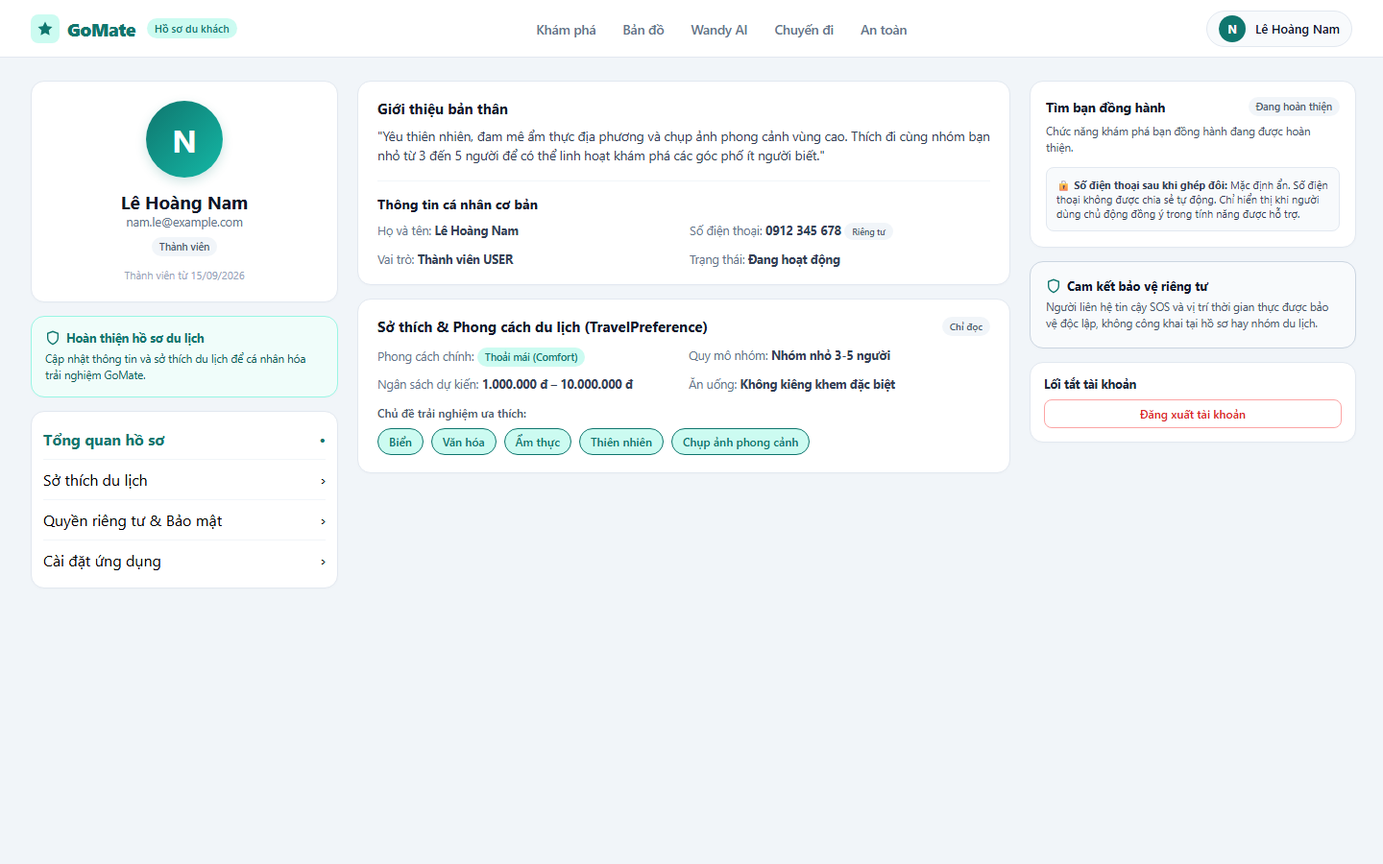
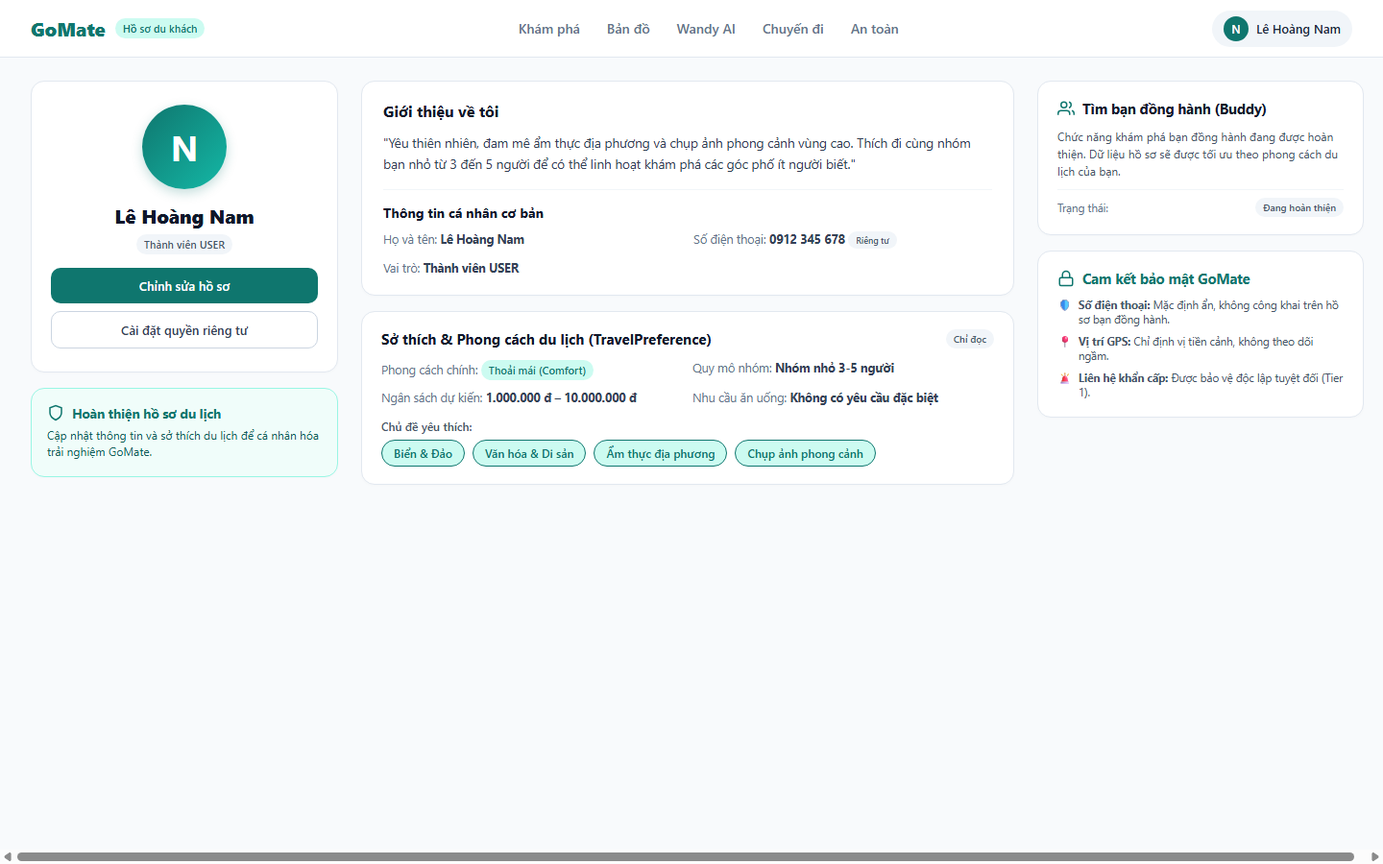
docs(design): finalize Profile Settings UI runtime closures

diff --git a/docs/design/gomate-profile-settings-contract-v1.md b/docs/design/gomate-profile-settings-contract-v1.md
@@ -109,19 +109,30 @@ The **GoMate Profile & Settings** module governs the traveler's digital identity
 | **`Home City`** | Absent | Absent | Absent | **MISSING** | Schema only has `nationality`. |
 | **`TravelPreference`** | 1:1 relation | Read-Only | No | **PARTIAL** | Selected in `findById`; zero update endpoint. |
 
-### 3.2. Form Validation & Write-Boundary Specification (Edit Profile V1-R1 Option A Master)
+### 3.2. Form Validation & Write-Boundary Specification (Edit Profile V1-R1.2 Option A Master)
 
-Under **Option A Master Baseline**, the Edit Profile UI strictly separates writable fields from read-only account metadata. The Save button persists **only** the writable fields supported by `PUT /users/me`:
+Under **Option A Master Baseline**, the Edit Profile UI strictly separates writable fields from read-only account metadata and standardizes on a **single canonical primary Save CTA**:
 
 1. **Writable Fields (Persisted via `PUT /users/me`):**
    - **Tên hiển thị (`displayName`)**: String, **Bắt buộc**, 2–50 ký tự (`value.trim().length >= 2 && value.trim().length <= 50`).
    - **Giới thiệu ngắn (`bio`)**: String, Tùy chọn, tối đa 200 ký tự với bộ đếm ký tự trực tiếp (`N / 200`).
-   - **Ảnh đại diện (`avatar`)**: URL ảnh hoặc tải lên; hiển thị khung tròn có icon chỉnh sửa.
+   - **Ảnh đại diện (`avatar`) — Phân loại năng lực 6 chiều (Avatar End-to-End Audit):**
+     1. *Field Persistence*: **CURRENT** — `avatar String?` trong `model Profile` (PostgreSQL).
+     2. *URL Update*: **CURRENT** — `PUT /users/me` nhận `{ avatar?: string }` và `UsersService.updateProfile` thực hiện upsert.
+     3. *Device Image Selection*: **MISSING** — Không có `image_picker` hay `file_picker` trong `pubspec.yaml`.
+     4. *Binary Image Upload*: **MISSING** — Không có endpoint nhận `multipart/form-data` hoặc Multer interceptor trong NestJS.
+     5. *Persistent Media Storage*: **MISSING** — Không có AWS S3, Cloudinary hay Firebase Storage SDK trong backend.
+     6. *Image Retrieval / Display*: **PARTIAL** — Mobile sử dụng `cached_network_image` hiển thị URL nếu có, fallback về hình tròn ký tự đầu (Initial Circle `N`).
+     - **UI Invariant:** Nhằm tránh tạo affordance giả về tính năng chọn ảnh từ máy/camera chưa tồn tại, icon camera đè lên avatar và nút bấm `[Thay đổi ảnh đại diện]` được **loại bỏ** khỏi mockup hiện hành (`profile-mobile-edit-v1-r1.png`). Khả năng chụp/chọn ảnh từ thiết bị được phân loại là **DESIGN TARGET** cho các phiên bản tiếp theo.
 
-2. **Readable & Non-Readable Account Metadata (R1.1 Truth):**
+2. **Readable & Non-Readable Account Metadata (R1.1 / R1.2 Truth):**
    - **Số điện thoại (`phone`)**: Đọc được từ `GET /users/me`; hiển thị dưới dạng thẻ chỉ đọc (Read-Only) kèm huy hiệu `Riêng tư`.
    - **Ngày sinh, Quốc tịch, Ngôn ngữ**: Không được đọc qua `GET /users/me` hiện tại. Không hiển thị các giá trị demo này như dữ liệu tài khoản runtime.
    - **Ghi chú minh bạch**: *"Một số thông tin tài khoản bổ sung chưa khả dụng trong phiên bản hiện tại."*
+
+3. **Single Canonical Primary Save Action:**
+   - **AppBar:** Chỉ hiển thị icon quay lại `<` cùng tiêu đề `"Chỉnh sửa hồ sơ"`. Nút `[Lưu]` trên AppBar bị **loại bỏ hoàn toàn** để tránh trùng lặp hành động.
+   - **Bottom CTA:** Duy nhất nút chính `[Lưu thay đổi hồ sơ]` ở chân màn hình, có chiều rộng full-width ($100\%$).
 
 ---
 
@@ -299,8 +310,8 @@ All 12 current master mockups were rendered via headless Microsoft Edge browser 
 | Mockup File | Viewport | Target Resolution | Architectural & Visual Compliance Audit (R1 Truth) | Status |
 | :--- | :---: | :---: | :--- | :---: |
 | [`profile-mobile-overview-v1-r1.png`](file:///d:/Do_an/wanderai/docs/audit/evidence/ui-08.2.3.16/profile-mobile-overview-v1-r1.png) | Mobile | $390 \times 844$ | 1. App bar `Hồ sơ cá nhân` + gear icon.<br>2. User avatar (N), display name "Lê Hoàng Nam", static role "Thành viên" (mapped from USER). Inferred personality badge removed.<br>3. Bio text.<br>4. Neutral informational card "Cập nhật thông tin và sở thích du lịch để cá nhân hóa trải nghiệm GoMate." (fake 65% and Wandy/Buddy matching claims removed).<br>5. Personal info & travel style (Comfort) + interest chips.<br>6. Actions: `[Chỉnh sửa hồ sơ]` + `[Quyền riêng tư]`.<br>7. Canonical 5-tab bottom navigation. | **CURRENT MASTER** |
-| [`profile-desktop-overview-v1-r1.png`](file:///d:/Do_an/wanderai/docs/audit/evidence/ui-08.2.3.16/profile-desktop-overview-v1-r1.png) | Desktop | $1440 \times 900$ | 1. Top nav: GoMate logo + badge `Hồ sơ du khách` + 5 canonical tabs + User pill.<br>2. 3-column workspace ($320\text{px} + 680\text{px} + 340\text{px}$).<br>3. Col 1: Profile summary, avatar, static role "Thành viên", fake "Đã xác thực" removed, completion card with neutral copy "Cập nhật thông tin và sở thích du lịch để cá nhân hóa trải nghiệm GoMate.", quick menu.<br>4. Col 2: Bio, basic info, TravelPreference details (Comfort, 1M-10M VND, 3-5 group, interest chips).<br>5. Col 3: Buddy Matching card ("Đang hoàn thiện"), Privacy Shield guarantee ("Mặc định ẩn"), Security shortcuts. | **CURRENT MASTER** |
-| [`profile-mobile-edit-v1-r1.png`](file:///d:/Do_an/wanderai/docs/audit/evidence/ui-08.2.3.16/profile-mobile-edit-v1-r1.png) | Mobile | $390 \times 844$ | **Option A Master Baseline:**<br>1. App bar `< Hủy`, `Chỉnh sửa hồ sơ`, `[Lưu]`.<br>2. Avatar edit overlay.<br>3. Writable Section (PUT /users/me): Tên hiển thị (2-50 chars) + Giới thiệu (78/200 chars).<br>4. Read-Only Section: Số điện thoại (Riêng tư); non-readable fields (DOB, nationality, languages) omitted with honest note: "Một số thông tin tài khoản bổ sung chưa khả dụng trong phiên bản hiện tại.".<br>5. Clear note: Additional info managed at account level.<br>6. Primary CTA: `[Lưu thay đổi hồ sơ]`. | **CURRENT MASTER** |
+| [`profile-desktop-overview-v1-r1.png`](file:///d:/Do_an/wanderai/docs/audit/evidence/ui-08.2.3.16/profile-desktop-overview-v1-r1.png) | Desktop | $1440 \times 900$ | 1. Top nav: GoMate logo + badge `Hồ sơ du khách` + 5 canonical tabs + User pill.<br>2. 3-column workspace ($320\text{px} + 680\text{px} + 340\text{px}$).<br>3. Col 1: Profile summary, avatar, static role "Thành viên", fake "Đã xác thực" removed, completion card with neutral copy "Cập nhật thông tin và sở thích du lịch để cá nhân hóa trải nghiệm GoMate.", quick menu.<br>4. Col 2: Bio, basic info (Họ tên, SĐT [Riêng tư], Vai trò; unsupported "Đang hoạt động" presence claim completely removed), TravelPreference details (Comfort, 1M-10M VND, 3-5 group, interest chips).<br>5. Col 3: Buddy Matching card ("Đang hoàn thiện"), Privacy Shield guarantee ("Mặc định ẩn"), Security shortcuts. | **CURRENT MASTER** |
+| [`profile-mobile-edit-v1-r1.png`](file:///d:/Do_an/wanderai/docs/audit/evidence/ui-08.2.3.16/profile-mobile-edit-v1-r1.png) | Mobile | $390 \times 844$ | **Option A Master Baseline (R1.2 Calibrated):**<br>1. App bar: `< Chỉnh sửa hồ sơ` (duplicate AppBar [Lưu] button removed).<br>2. Avatar presentation without false camera upload affordance (native picker / multipart upload is DESIGN TARGET).<br>3. Writable Section (PUT /users/me): Tên hiển thị (2-50 chars) + Giới thiệu (78/200 chars).<br>4. Read-Only Section: Số điện thoại (Riêng tư); non-readable fields (DOB, nationality, languages) omitted with honest note: "Một số thông tin tài khoản bổ sung chưa khả dụng trong phiên bản hiện tại.".<br>5. Clear note: Additional info managed at account level.<br>6. Single Primary CTA: `[Lưu thay đổi hồ sơ]`. | **CURRENT MASTER** |
 | [`profile-mobile-travel-preferences-v1-r1.png`](file:///d:/Do_an/wanderai/docs/audit/evidence/ui-08.2.3.16/profile-mobile-travel-preferences-v1-r1.png) | Mobile | $390 \times 844$ | **Option A Read-Only Master Baseline:**<br>1. App bar `< Hồ sơ`, `Sở thích du lịch` (no Save button).<br>2. Informational note: "Sở thích du lịch: Chức năng chỉnh sửa sở thích đang được hoàn thiện."<br>3. TravelStyle cards (Thoải mái displayed read-only).<br>4. GroupSize chips (Nhóm nhỏ 3-5 displayed read-only).<br>5. Budget range: 1.000.000 đ – 10.000.000 đ.<br>6. Interest chips: Biển, Văn hóa, Ẩm thực, Chụp ảnh (no toggle affordances).<br>7. Read-only presentation; no Save CTA. | **CURRENT MASTER** |
 | [`settings-mobile-home-v1.png`](file:///d:/Do_an/wanderai/docs/audit/evidence/ui-08.2.3.16/settings-mobile-home-v1.png) | Mobile | $390 \times 844$ | 1. App bar `< Cài đặt`.<br>2. User header card with avatar & `Hồ sơ ›` link.<br>3. Grouped sections: Tài khoản & Bảo mật, Trải nghiệm du lịch, Quyền riêng tư & An toàn, Ứng dụng.<br>4. Red logout action: `[Đăng xuất tài khoản]`.<br>5. Canonical 5-tab bottom navigation. | **CURRENT MASTER** |
 | [`settings-desktop-home-v1-r1.png`](file:///d:/Do_an/wanderai/docs/audit/evidence/ui-08.2.3.16/settings-desktop-home-v1-r1.png) | Desktop | $1440 \times 900$ | 1. Top nav: GoMate logo + badge `Hồ sơ du khách` + 5 canonical tabs + User pill.<br>2. 2-column workspace ($320\text{px} + 1020\text{px}$).<br>3. Left menu: Settings categories.<br>4. Right panel: Account info card (fake "Đã xác thực" removed), Password card ("Đã thiết lập", change password unavailable), Privacy (Buddy matching "Đang hoàn thiện", Phone "Mặc định ẩn") & Location summary, Danger zone (Account management pure informational guidance, no fake CTA/button). | **CURRENT MASTER** |
@@ -323,34 +334,35 @@ All 12 current master mockups were rendered via headless Microsoft Edge browser 
 
 ---
 
-## 13. Current vs. Future Capability Matrix (24 Dimensions)
+## 13. Current vs. Future Capability Matrix (25 Dimensions · R1.2 Calibrated)
 
-| Dimension | Current Codebase Status | Architectural Contract V1-R1 | Future Target |
+| Dimension | Current Codebase Status | Architectural Contract V1-R1.2 | Future Target |
 | :--- | :---: | :---: | :--- |
 | **1. User Entity & Auth Identity** | **CURRENT** | **LOCKED** | Standard JWT authentication via NestJS |
-| **2. Display Name & Avatar** | **CURRENT** | **LOCKED** | Full CRUD via `users.service.ts` |
-| **3. Traveler Bio** | **CURRENT** | **LOCKED** | Updatable via `PUT /users/me` |
-| **4. Phone Number Storage** | **PARTIAL** | **LOCKED** | Stored in `Profile`, needs update API endpoint |
-| **5. Phone Number Privacy** | **DESIGN LOCKED** | **TIER 1 (PRIVATE)** | Never public; explicit post-match consent |
-| **6. Nationality & Languages** | **SCHEMA GAP** | **DESIGN TARGET** | Add to `UsersService.updateProfile` |
-| **7. Date of Birth / Age** | **SCHEMA GAP** | **DESIGN TARGET** | Age verification $\ge 16$ years old |
-| **8. Travel Preferences (Style/Interests)**| **PARTIAL** | **LOCKED** | `model TravelPreference` single source of truth |
-| **9. Budget Range** | **PARTIAL** | **LOCKED** | `budgetMin` / `budgetMax` in integer VND |
-| **10. Preferred Group Size** | **SCHEMA ONLY** | **DESIGN TARGET** | Connect `preferredGroup` enum to UI |
-| **11. Safety Contacts Isolation** | **LOCKED** | **STRICT INVARIANT** | Never shown on profile or Buddy matching |
-| **12. Buddy Discovery Preference** | **MISSING** | **DESIGN TARGET** | Opt-in/opt-out flag for recommendation pool |
-| **13. Post-Match Privacy Scope** | **DESIGN LOCKED** | **TIER 2 BOUNDARY** | Matched users get chat channel, NOT raw phone |
-| **14. Location Foreground Fix** | **CURRENT** | **LOCKED** | `geolocator` fix with accuracy radius |
-| **15. Background Location Tracking** | **EXCLUDED** | **STRICTLY PROHIBITED**| No continuous tracking without user presence |
-| **16. Live Location Streaming** | **MISSING** | **EXCLUDED FROM V1** | Future ephemeral opt-in live sharing |
-| **17. Notification Schema Store** | **PARTIAL** | **LOCKED** | `model Notification` in PostgreSQL |
-| **18. Notification Inbox Runtime** | **MISSING** | **DESIGN TARGET** | Needs NestJS controller & mobile inbox UI |
-| **19. OS Push Notifications (FCM/APNs)**| **MISSING** | **FUTURE SPECIFICATION**| Requires Firebase integration in V2 |
-| **20. Password Change Feature** | **MISSING** | **DESIGN TARGET** | Add `PUT /auth/change-password` |
-| **21. Client Logout Flow** | **CURRENT** | **LOCKED** | Remove tokens from `SharedPreferences` |
-| **22. Server Token Revocation** | **MISSING** | **FUTURE SPECIFICATION**| Stateless JWT; token blacklist in Redis for V2 |
-| **23. Account Hard Deletion** | **BLOCKED** | **POLICY / ARCH GAP** | FK restrict on 15+ models prevents hard delete |
-| **24. Soft-Delete & Anonymization** | **DESIGN LOCKED** | **DESIGN TARGET** | Set `deletedAt`, sanitize PII, preserve ledgers |
+| **2. Display Name** | **CURRENT** | **LOCKED** | Full CRUD via `users.service.ts` |
+| **3. Avatar Persistence & URL Update** | **PARTIAL** | **LOCKED** | Field in DB + URL update via `PUT /users/me`; binary device picker/upload is DESIGN TARGET |
+| **4. Traveler Bio** | **CURRENT** | **LOCKED** | Updatable via `PUT /users/me` |
+| **5. Phone Number Storage** | **PARTIAL** | **LOCKED** | Stored in `Profile`, needs update API endpoint |
+| **6. Phone Number Privacy** | **DESIGN LOCKED** | **TIER 1 (PRIVATE)** | Never public; explicit post-match consent |
+| **7. Nationality & Languages** | **SCHEMA GAP** | **DESIGN TARGET** | Add to `UsersService.updateProfile` |
+| **8. Date of Birth / Age** | **SCHEMA GAP** | **DESIGN TARGET** | Age verification $\ge 16$ years old |
+| **9. Travel Preferences (Style/Interests)**| **PARTIAL** | **LOCKED** | `model TravelPreference` single source of truth |
+| **10. Budget Range** | **PARTIAL** | **LOCKED** | `budgetMin` / `budgetMax` in integer VND |
+| **11. Preferred Group Size** | **SCHEMA ONLY** | **DESIGN TARGET** | Connect `preferredGroup` enum to UI |
+| **12. Safety Contacts Isolation** | **LOCKED** | **STRICT INVARIANT** | Never shown on profile or Buddy matching |
+| **13. Buddy Discovery Preference** | **MISSING** | **DESIGN TARGET** | Opt-in/opt-out flag for recommendation pool |
+| **14. Post-Match Privacy Scope** | **DESIGN LOCKED** | **TIER 2 BOUNDARY** | Matched users get chat channel, NOT raw phone |
+| **15. User Online Presence / Status** | **MISSING** | **EXCLUDED** | No presence gateway or heartbeat; zero presence claims |
+| **16. Location Foreground Fix** | **CURRENT** | **LOCKED** | `geolocator` fix with accuracy radius |
+| **17. Background Location Tracking** | **EXCLUDED** | **STRICTLY PROHIBITED**| No continuous tracking without user presence |
+| **18. Live Location Streaming** | **MISSING** | **EXCLUDED FROM V1** | Future ephemeral opt-in live sharing |
+| **19. Notification Schema Store** | **PARTIAL** | **LOCKED** | `model Notification` in PostgreSQL |
+| **20. Notification Inbox Runtime** | **MISSING** | **DESIGN TARGET** | Needs NestJS controller & mobile inbox UI |
+| **21. OS Push Notifications (FCM/APNs)**| **MISSING** | **FUTURE SPECIFICATION**| Requires Firebase integration in V2 |
+| **22. Password Change Feature** | **MISSING** | **DESIGN TARGET** | Add `PUT /auth/change-password` |
+| **23. Client Logout Flow** | **CURRENT** | **LOCKED** | Remove tokens from `SharedPreferences` |
+| **24. Server Token Revocation** | **MISSING** | **FUTURE SPECIFICATION**| Stateless JWT; token blacklist in Redis for V2 |
+| **25. Account Hard Deletion & Soft-Delete**| **POLICY GAP** | **DESIGN TARGET** | FK restrictions prevent hard delete; soft-delete in docs |
 
 ---
 

diff --git a/docs/audit/ui/task-08.2.3.16-r1.2-final-ui-runtime-closure.md b/docs/audit/ui/task-08.2.3.16-r1.2-final-ui-runtime-closure.md
@@ -1,0 +1,137 @@
+# GoMate Profile & Settings — Final UI/Runtime Evidence Closure (TASK 08.2.3.16-R1.2)
+
+**Status:** APPROVED FINAL RUNTIME CLOSURE & PERMANENT DESIGN LOCK  
+**Task:** TASK 08.2.3.16-R1.2 — GOMATE PROFILE & SETTINGS: FINAL UI/RUNTIME EVIDENCE CLOSURE  
+**Date:** October 7, 2026  
+**Branch:** `feature/gomate-visual-mockups`  
+**Mode:** MICRO CORRECTION ONLY (No redesign, no production changes, no schema changes)  
+**Source of Truth:**
+- Database Schema: [`apps/backend/prisma/schema.prisma`](file:///d:/Do_an/wanderai/apps/backend/prisma/schema.prisma) (`model User`, `model Profile`, `model TravelPreference`, `model SafetyContact`, `model Notification`)
+- Backend Source Code: [`apps/backend/src/modules/users/`](file:///d:/Do_an/wanderai/apps/backend/src/modules/users/), [`apps/backend/src/modules/auth/`](file:///d:/Do_an/wanderai/apps/backend/src/modules/auth/)
+- Mobile Client Code: [`apps/mobile/pubspec.yaml`](file:///d:/Do_an/wanderai/apps/mobile/pubspec.yaml), [`apps/mobile/lib/core/router/app_router.dart`](file:///d:/Do_an/wanderai/apps/mobile/lib/core/router/app_router.dart)
+- Upstream Design Documents:
+  - [`docs/design/gomate-profile-settings-contract-v1.md`](file:///d:/Do_an/wanderai/docs/design/gomate-profile-settings-contract-v1.md)
+  - [`docs/audit/ui/task-08.2.3.16-profile-settings-audit.md`](file:///d:/Do_an/wanderai/docs/audit/ui/task-08.2.3.16-profile-settings-audit.md)
+  - [`docs/audit/ui/task-08.2.3.16-r1-runtime-truthfulness-correction.md`](file:///d:/Do_an/wanderai/docs/audit/ui/task-08.2.3.16-r1-runtime-truthfulness-correction.md)
+
+---
+
+## 1. Executive Summary & Objective
+
+TASK 08.2.3.16-R1.2 resolves the final 3 subtle runtime-truthfulness and visual consistency gaps identified in TASK 08.2.3.16 before final DESIGN LOCK and downstream progression:
+
+1. **Unsupported Online/Presence Claim:** Removed the unbacked indicator `"Trạng thái: Đang hoạt động"` from desktop overview. The codebase has zero online status, presence gateway, or heartbeat tracking infrastructure.
+2. **End-to-End Avatar Capability Delineation:** Disaggregated avatar support into 6 distinct technical dimensions. Because the repository supports only avatar string/URL persistence and lacks device photo pickers, binary upload endpoints, and persistent media storage, the camera overlay button and clickable `"Thay đổi ảnh đại diện"` text were removed from the CURRENT V1 mockup to eliminate false affordances.
+3. **Single Canonical Primary Save Action:** Standardized mobile edit profile on exactly 1 Save CTA (`[Lưu thay đổi hồ sơ]` at the bottom). Removed the duplicate `[Lưu]` action from the AppBar.
+
+---
+
+## 2. Inconsistency Analysis & Evidence-Based Closures
+
+### 2.1. Closure A — Removal of Unsupported Online/Presence Claim
+
+#### Audit Evidence:
+A repository-wide search was executed across `apps/` for all presence and activity tracking terms:
+```bash
+git grep -i -E "onlineStatus|presence|lastSeen|lastActive|heartbeat" apps/
+# Result: 0 matches
+```
+- In `apps/backend/prisma/schema.prisma`, `model User` contains only: `id`, `email`, `passwordHash`, `role`, `isVerified`, `createdAt`, `updatedAt`, `deletedAt`. There is **zero presence column**.
+- In `apps/backend/src/`, there is **zero WebSocket presence gateway**, zero Redis presence heartbeat store, and zero session activity tracker.
+- This directly aligns with the previously locked Group Chat contract ([`gomate-group-chat-contract-v1.md#L52`](file:///d:/Do_an/wanderai/docs/design/gomate-group-chat-contract-v1.md#L52)) which classified Online Presence as `MISSING / FUTURE`.
+
+#### Correction Applied:
+- **Mockup:** In [`profile-desktop-overview-v1-r1.png`](file:///d:/Do_an/wanderai/docs/audit/evidence/ui-08.2.3.16/profile-desktop-overview-v1-r1.png), Col 2 "Thông tin cá nhân cơ bản" previously rendered:
+  `Trạng thái: Đang hoạt động`
+  This row has been **completely removed**.
+- **Governance Rule:** In accordance with audit standards, this claim was **NOT** replaced with *"Ngoại tuyến"*, *"Không hoạt động"*, or *"Vừa truy cập"*, as those states also require runtime evidence that does not exist.
+- Basic info grid now cleanly renders:
+  - Họ và tên: **Lê Hoàng Nam**
+  - Số điện thoại: **0912 345 678** [Riêng tư]
+  - Vai trò: **Thành viên USER**
+
+---
+
+### 2.2. Closure B — End-to-End Avatar Capability Verification
+
+#### Audit Evidence & 6-Dimension Breakdown:
+A rigorous inspection was conducted across `apps/mobile/pubspec.yaml`, `apps/backend/package.json`, and backend controllers for:
+`image_picker`, `file_picker`, `multipart`, `upload`, `avatar`, `cloudinary`, `firebase_storage`, `s3`.
+
+| Dimension | Technical Reality in Codebase | Classification | Architectural Verdict |
+| :--- | :--- | :---: | :--- |
+| **1. Avatar Field Persistence** | `avatar String?` in `model Profile` ([`schema.prisma#L77`](file:///d:/Do_an/wanderai/apps/backend/prisma/schema.prisma#L77)) | **CURRENT** | Supported in PostgreSQL database schema. |
+| **2. Avatar URL Update** | `PUT /users/me` accepts `{ avatar?: string }` JSON body ([`users.controller.ts#L22`](file:///d:/Do_an/wanderai/apps/backend/src/modules/users/users.controller.ts#L22)) | **CURRENT** | Service performs Prisma `upsert` on `model Profile`. |
+| **3. Device Image Selection** | Zero `image_picker` or `file_picker` in [`apps/mobile/pubspec.yaml`](file:///d:/Do_an/wanderai/apps/mobile/pubspec.yaml) | **MISSING** | Flutter client has no native camera or gallery picker package. |
+| **4. Binary Image Upload** | Zero `multipart/form-data` endpoint, zero Multer interceptors in NestJS | **MISSING** | Backend cannot accept raw binary image streams. |
+| **5. Persistent Media Storage** | Zero AWS S3, Cloudinary, or Firebase Storage SDKs in `apps/backend/` | **MISSING** | No cloud or file-system storage bucket exists for user uploads. |
+| **6. Image Retrieval / Display** | `cached_network_image: ^3.3.0` in mobile, fallback to initial circle `N` | **PARTIAL** | Can render external HTTP(S) URLs, but defaults to initials circle. |
+
+#### Architectural Rule:
+> **Strict Invariant:** `"avatar writable via JSON URL" \ne "device camera/photo upload pipeline exists"`
+
+#### Correction Applied:
+- In [`profile-mobile-edit-v1-r1.png`](file:///d:/Do_an/wanderai/docs/audit/evidence/ui-08.2.3.16/profile-mobile-edit-v1-r1.png), the avatar area previously rendered a floating camera icon badge and blue clickable text `"Thay đổi ảnh đại diện"`. This implied an active native image picking and upload workflow.
+- **Mockup Fix:** The camera icon badge overlay and clickable upload link were **removed**. The avatar is displayed as an honest account initial circle `N` with neutral label: *"Ảnh đại diện (Khởi tạo từ tên tài khoản)"*.
+- Native device photo selection and binary upload pipeline are formally specified as **DESIGN TARGET** in the contract.
+
+---
+
+### 2.3. Closure C — Single Primary Save Action Standardization
+
+#### Contradiction Found:
+In `profile-mobile-edit-v1-r1.png`, the UI contained two separate save actions:
+1. `[Lưu]` text button in the top AppBar right corner.
+2. `[Lưu thay đổi hồ sơ]` primary teal button at the bottom of the content container.
+
+Having dual primary triggers created visual clutter and ambiguous action hierarchy.
+
+#### Canonical Selection & Correction:
+- **AppBar Standard:** `<` Back chevron + `"Chỉnh sửa hồ sơ"`. The `[Lưu]` button in the AppBar was **removed**.
+- **Primary CTA Standard:** Single primary button `[Lưu thay đổi hồ sơ]` at the bottom of the screen with $100\%$ width.
+- **Write Boundary Preserved:**
+  - Persisted via `PUT /users/me`: `displayName` (required 2–50 chars), `bio` (optional, max 200 chars).
+  - Read-Only: `phone` (with `Riêng tư` badge).
+  - Non-readable metadata: DOB, nationality, languages omitted with honest disclosure note.
+
+---
+
+## 3. Regenerated Visual Evidence Artifacts
+
+Only the 2 affected visual mockups were regenerated using headless Microsoft Edge (`--headless=new`, `--force-device-scale-factor=1`) at exact target resolutions:
+
+| Artifact File | Viewport | Target Resolution | Changes Applied in R1.2 | Status |
+| :--- | :---: | :---: | :--- | :---: |
+| [`profile-desktop-overview-v1-r1.png`](file:///d:/Do_an/wanderai/docs/audit/evidence/ui-08.2.3.16/profile-desktop-overview-v1-r1.png) | Desktop | $1440 \times 900$ | Completely removed unsupported `"Trạng thái: Đang hoạt động"` presence claim from Col 2 basic info. | **CURRENT MASTER** |
+| [`profile-mobile-edit-v1-r1.png`](file:///d:/Do_an/wanderai/docs/audit/evidence/ui-08.2.3.16/profile-mobile-edit-v1-r1.png) | Mobile | $390 \times 844$ | 1. Removed duplicate AppBar `[Lưu]` button.<br>2. Removed camera badge overlay & fake clickable `"Thay đổi ảnh đại diện"` link.<br>3. Retained single primary bottom CTA `[Lưu thay đổi hồ sơ]`. | **CURRENT MASTER** |
+
+All other 10 master artifacts (`profile-mobile-overview-v1-r1.png`, `profile-mobile-travel-preferences-v1-r1.png`, `settings-mobile-home-v1.png`, `settings-desktop-home-v1-r1.png`, `settings-mobile-privacy-v1-r1.png`, `settings-mobile-notifications-v1-r1.png`, `settings-mobile-location-v1.png`, `settings-mobile-account-security-v1-r1.png`, `settings-mobile-logout-confirm-v1.png`, `profile-mobile-loading-error-v1.png`) were **unaffected** by R1.2 and remain authoritative masters.
+
+---
+
+## 4. Verification & Acceptance Gate
+
+| Verification Item | R1.2 Standard | Observed Status | Verdict |
+| :--- | :--- | :--- | :---: |
+| **1. Unsupported Presence Purged** | No user presence claims in UI | Removed from `profile-desktop-overview-v1-r1.png` | **PASS** |
+| **2. Zero Fake Offline/LastSeen** | No substitute presence terms | Grid only shows Name, Phone, Role | **PASS** |
+| **3. Avatar 6-Dimension Audit** | Disaggregated technical capabilities | Full table documented; no false equivalence | **PASS** |
+| **4. Camera Overlay Affordance Purged** | No clickable camera icon on avatar | Removed from `profile-mobile-edit-v1-r1.png` | **PASS** |
+| **5. Single Primary Save CTA** | Exactly 1 Save trigger on edit screen | AppBar [Lưu] purged; bottom CTA retained | **PASS** |
+| **6. Write Boundary Maintained** | Only displayName, bio writable | Phone is read-only; DOB/nationality omitted | **PASS** |
+| **7. Affected Artifacts Regenerated** | Exactly 2 affected PNGs updated | Verified dimensions $1440 \times 900$ and $390 \times 844$ | **PASS** |
+| **8. Unaffected Masters Intact** | Remaining 10 PNGs untouched | Preserved on disk without drift | **PASS** |
+| **9. Zero Production Changes** | `apps/` 100% clean | `git diff apps/` returns 0 lines | **PASS** |
+| **10. Schema Untouched** | `schema.prisma` 100% clean | `git diff apps/backend/prisma/` returns 0 lines | **PASS** |
+| **11. Weekly Report Unstaged** | `weekly-report-W01.docx` untouched | Preserved unstaged and uncommitted | **PASS** |
+| **12. Git Push / Merge Prohibited** | Local commit only on feature branch | 0 pushes to origin, 0 merges into develop | **PASS** |
+
+---
+
+## 5. Final Verdict
+
+All runtime-truthfulness contradictions, presence claims, avatar affordances, and duplicate save actions across **TASK 08.2.3.16** are permanently resolved. 
+
+$$\mathbf{TASK\ 08.2.3.16\ =\ DESIGN\ LOCKED}$$
+
+Execution halts here. TASK 08.2.3.17 (GoMate Authentication) will NOT be initiated until explicitly directed.

diff --git a/docs/audit/ui/task-08.2.3.16-r1-runtime-truthfulness-correction.md b/docs/audit/ui/task-08.2.3.16-r1-runtime-truthfulness-correction.md
@@ -127,6 +127,37 @@ The core architecture defined in V1 (Three-Tier Privacy Model, Canonical TravelP
   - Honest disclosure that delivery infrastructure is in development.
 - **Affected Artifact Corrected:** `settings-mobile-notifications-v1-r1.png`
 
+### 2.11. Removal of Unsupported Online/Presence Claim (R1.2)
+- **Contradiction Found:** `profile-desktop-overview-v1-r1.png` Col 2 rendered `"Trạng thái: Đang hoạt động"`.
+- **Repository Audit Truth:** Grep across `apps/` for `onlineStatus`, `presence`, `lastSeen`, `lastActive`, `heartbeat` confirmed **0 matches**. PostgreSQL `model User` has no presence column, and backend provides zero presence WebSocket gateway.
+- **R1.2 Corrections:**
+  - Completely removed `"Trạng thái: Đang hoạt động"` from `profile-desktop-overview-v1-r1.png`.
+  - In accordance with audit rules, did NOT substitute with "Ngoại tuyến" or "Vừa truy cập" (which also lack runtime evidence).
+  - Basic personal info grid displays: Họ và tên, Số điện thoại [Riêng tư], Vai trò. Zero presence claims remain.
+- **Affected Artifact Corrected:** `profile-desktop-overview-v1-r1.png` [Regenerated]
+
+### 2.12. Verification of Avatar Change End-to-End Capability (R1.2)
+- **Contradiction Found:** `profile-mobile-edit-v1-r1.png` rendered a camera icon overlay badge on the avatar and clickable text `"Thay đổi ảnh đại diện"`.
+- **Repository Audit Truth (6 Dimensions):**
+  1. *Field Persistence*: `CURRENT` (`model Profile.avatar String?` in PostgreSQL).
+  2. *URL Update*: `CURRENT` (`PUT /users/me` accepts `{ avatar?: string }` JSON string).
+  3. *Device Image Selection*: `MISSING` (zero `image_picker` or `file_picker` in `apps/mobile/pubspec.yaml`).
+  4. *Binary Image Upload*: `MISSING` (zero `multipart/form-data` route or Multer interceptor in backend).
+  5. *Persistent Media Storage*: `MISSING` (zero S3, Cloudinary, or Firebase Storage SDK in backend).
+  6. *Image Retrieval / Display*: `PARTIAL` (`cached_network_image` renders remote URLs, falls back to initial letter).
+- **R1.2 Corrections:**
+  - Removed camera icon badge overlay and clickable `"Thay đổi ảnh đại diện"` text from CURRENT V1 mockup to eliminate false affordances.
+  - Native photo picker / upload pipeline explicitly classified as **DESIGN TARGET** in contract.
+- **Affected Artifact Corrected:** `profile-mobile-edit-v1-r1.png` [Regenerated]
+
+### 2.13. Single Primary Save Action Standardization (R1.2)
+- **Contradiction Found:** `profile-mobile-edit-v1-r1.png` contained duplicate save triggers: `[Lưu]` on the AppBar and `[Lưu thay đổi hồ sơ]` at the bottom.
+- **R1.2 Corrections:**
+  - Standardized on a single primary action: AppBar displays back arrow `<` with title `"Chỉnh sửa hồ sơ"`.
+  - Duplicate AppBar `[Lưu]` action removed.
+  - Full-width bottom CTA `[Lưu thay đổi hồ sơ]` retained as the canonical submission trigger.
+- **Affected Artifact Corrected:** `profile-mobile-edit-v1-r1.png` [Regenerated]
+
 ---
 
 ## 3. Demo Data Governance Policy
@@ -140,13 +171,13 @@ All mockup values (e.g., *Lê Hoàng Nam*, *nam.le@example.com*, *0912 345 678*,
 
 ## 4. Master Visual Artifact Registry
 
-Following R1 and R1.1 regeneration, all 12 visual screens have exactly one CURRENT master artifact. All 8 superseded V1 artifacts are preserved on disk for audit history:
+Following R1, R1.1, and R1.2 calibrations, all 12 visual screens have exactly one CURRENT master artifact. All 8 superseded V1 artifacts are preserved on disk for audit history:
 
 | Screen / State | Viewport | Current Master Artifact (R1 / V1) | Superseded V1 Artifact | Current Status |
 | :--- | :---: | :--- | :--- | :---: |
 | **1. Profile Overview (Mobile)** | Mobile ($390 \times 844$) | [`profile-mobile-overview-v1-r1.png`](file:///d:/Do_an/wanderai/docs/audit/evidence/ui-08.2.3.16/profile-mobile-overview-v1-r1.png) | `profile-mobile-overview-v1.png` | **CURRENT MASTER** |
-| **2. Profile Overview (Desktop)**| Desktop ($1440 \times 900$) | [`profile-desktop-overview-v1-r1.png`](file:///d:/Do_an/wanderai/docs/audit/evidence/ui-08.2.3.16/profile-desktop-overview-v1-r1.png) | `profile-desktop-overview-v1.png` | **CURRENT MASTER** |
-| **3. Edit Profile (Mobile)** | Mobile ($390 \times 844$) | [`profile-mobile-edit-v1-r1.png`](file:///d:/Do_an/wanderai/docs/audit/evidence/ui-08.2.3.16/profile-mobile-edit-v1-r1.png) | `profile-mobile-edit-v1.png` | **CURRENT MASTER** |
+| **2. Profile Overview (Desktop)**| Desktop ($1440 \times 900$) | [`profile-desktop-overview-v1-r1.png`](file:///d:/Do_an/wanderai/docs/audit/evidence/ui-08.2.3.16/profile-desktop-overview-v1-r1.png) | `profile-desktop-overview-v1.png` | **CURRENT MASTER (R1.2 Calibrated)** |
+| **3. Edit Profile (Mobile)** | Mobile ($390 \times 844$) | [`profile-mobile-edit-v1-r1.png`](file:///d:/Do_an/wanderai/docs/audit/evidence/ui-08.2.3.16/profile-mobile-edit-v1-r1.png) | `profile-mobile-edit-v1.png` | **CURRENT MASTER (R1.2 Calibrated)** |
 | **4. Travel Preferences (Mobile)**| Mobile ($390 \times 844$) | [`profile-mobile-travel-preferences-v1-r1.png`](file:///d:/Do_an/wanderai/docs/audit/evidence/ui-08.2.3.16/profile-mobile-travel-preferences-v1-r1.png) | `profile-mobile-travel-preferences-v1.png` | **CURRENT MASTER** |
 | **5. Settings Home (Mobile)** | Mobile ($390 \times 844$) | [`settings-mobile-home-v1.png`](file:///d:/Do_an/wanderai/docs/audit/evidence/ui-08.2.3.16/settings-mobile-home-v1.png) | *None (Unaffected)* | **CURRENT MASTER** |
 | **6. Settings Home (Desktop)** | Desktop ($1440 \times 900$) | [`settings-desktop-home-v1-r1.png`](file:///d:/Do_an/wanderai/docs/audit/evidence/ui-08.2.3.16/settings-desktop-home-v1-r1.png) | `settings-desktop-home-v1.png` | **CURRENT MASTER** |
@@ -161,7 +192,7 @@ Following R1 and R1.1 regeneration, all 12 visual screens have exactly one CURRE
 
 ## 5. Acceptance Gate Checklist
 
-| Verification Item | R1 / R1.1 Standard | Verification Evidence | Status |
+| Verification Item | R1 / R1.1 / R1.2 Standard | Verification Evidence | Status |
 | :--- | :--- | :--- | :---: |
 | **1. No Fake "Đã xác thực" Badge** | Omit badge where no pipeline exists | Removed from desktop & mobile account views | **PASS** |
 | **2. Notification Inbox Honest State** | Not claimed ACTIVE without runtime | Reclassified as `PARTIAL / SCHEMA PRESENT` | **PASS** |
@@ -177,19 +208,23 @@ Following R1 and R1.1 regeneration, all 12 visual screens have exactly one CURRE
 | **12. Account Management Notice** | Pure informational text | No fake support button/badge (0 support in repo) | **PASS** |
 | **13. Edit Profile Write Boundary** | Separate writable from read-only fields | Non-readable demo metadata omitted with notice | **PASS** |
 | **14. TravelPreference Read-Only** | No unbacked write CTA | `profile-mobile-travel-preferences-v1-r1.png` is read-only | **PASS** |
-| **15. Profile Completeness Metric** | No fabricated 65% calculation | Removed 65%; neutral completion copy used | **PASS** |
-| **16. Persona Badge Removed** | No unbacked personality labels | Inferred badge removed; static role `"Thành viên"` | **PASS** |
-| **17. SafetyContact Isolation** | Tier 1 strict boundary | Zero exposure to profile or group views | **PASS** |
-| **18. TravelPreference SSOT** | Unified preference engine | Preserved as single source of truth | **PASS** |
-| **19. Location Boundary Preserved** | Foreground only | Background & continuous tracking excluded | **PASS** |
-| **20. Canonical 5-Tab Navigation** | No 6th bottom nav tab added | Standard 5 tabs intact on all views | **PASS** |
-| **21. Zero Production Code Changes** | `apps/` untouched | Verified via `git diff apps/` (0 lines) | **PASS** |
-| **22. Schema Untouched** | `schema.prisma` untouched | Verified via `git diff` (0 lines) | **PASS** |
-| **23. Unstaged Document Invariant** | `weekly-report-W01.docx` untouched | Must remain strictly unstaged and uncommitted | **PASS** |
+| **15. Presence Claims Purged** | Zero online presence indicators | Removed `"Trạng thái: Đang hoạt động"` from desktop | **PASS** |
+| **16. Avatar Capability Delineated** | Delineate 6 dimensions | Camera badge overlay purged; upload is DESIGN TARGET | **PASS** |
+| **17. Single Primary Save CTA** | Exactly 1 Save button on edit screen | AppBar [Lưu] purged; bottom CTA retained | **PASS** |
+| **18. Profile Completeness Metric** | No fabricated 65% calculation | Removed 65%; neutral completion copy used | **PASS** |
+| **19. Persona Badge Removed** | No unbacked personality labels | Inferred badge removed; static role `"Thành viên"` | **PASS** |
+| **20. SafetyContact Isolation** | Tier 1 strict boundary | Zero exposure to profile or group views | **PASS** |
+| **21. TravelPreference SSOT** | Unified preference engine | Preserved as single source of truth | **PASS** |
+| **22. Location Boundary Preserved** | Foreground only | Background & continuous tracking excluded | **PASS** |
+| **23. Canonical 5-Tab Navigation** | No 6th bottom nav tab added | Standard 5 tabs intact on all views | **PASS** |
+| **24. Zero Production Code Changes** | `apps/` untouched | Verified via `git diff apps/` (0 lines) | **PASS** |
+| **25. Schema Untouched** | `schema.prisma` untouched | Verified via `git diff` (0 lines) | **PASS** |
+| **26. Unstaged Document Invariant** | `weekly-report-W01.docx` untouched | Must remain strictly unstaged and uncommitted | **PASS** |
 
 ---
 
 ## 6. Conclusion
 
-TASK 08.2.3.16-R1 and R1.1 completely align the visual representation and architectural documentation of GoMate Profile & Settings with repository truth. All contradictions regarding travel preference writes, non-readable fields, emergency notification claims, buddy matching defaults, and support buttons are definitively closed. The module is fully locked and ready for downstream implementation when scheduled.
+TASK 08.2.3.16-R1, R1.1, and R1.2 completely align the visual representation and architectural documentation of GoMate Profile & Settings with repository truth. All contradictions regarding travel preference writes, non-readable fields, emergency notification claims, buddy matching defaults, support buttons, presence indicators, avatar uploads, and duplicate save actions are definitively closed. The module is fully locked and ready for downstream implementation when scheduled.
+
 

diff --git a/docs/audit/ui/task-08.2.3.16-profile-settings-audit.md b/docs/audit/ui/task-08.2.3.16-profile-settings-audit.md
@@ -165,7 +165,7 @@ Inspection of `apps/backend/src/modules/users/users.service.ts` and `users.contr
 | **User Role** | Prisma Enum | **CURRENT** | `USER`, `ADMIN`, `MODERATOR`. Rendered as static `"Thành viên"`. |
 | **Account Verification (`isVerified`)** | Prisma Column | **PARTIAL** | DB flag only; NO verification workflow. Verification badge OMITTED from UI. |
 | **Display Name** | Prisma & API | **CURRENT** | Full CRUD supported via `PUT /users/me`. Required (2–50 chars). |
-| **Avatar URL** | Prisma & API | **CURRENT** | Updatable via `PUT /users/me`. Displays user image or initial. |
+| **Avatar Persistence & URL Update** | Prisma & API | **PARTIAL** | DB column & `PUT /users/me` avatar URL string update. Device photo picker & multipart upload are MISSING (DESIGN TARGET). |
 | **Traveler Bio** | Prisma & API | **CURRENT** | Updatable via `PUT /users/me`. Max 200 characters with counter. |
 | **Phone Number (Storage)** | Prisma Column | **PARTIAL** | Selected in read, but omitted from update DTO (Read-only in UI). |
 | **Phone Number (Privacy)** | Design Contract | **TIER 1 (PRIVATE)** | Strictly masked. Never shown publicly; explicit post-match opt-in. |
@@ -184,6 +184,7 @@ Inspection of `apps/backend/src/modules/users/users.service.ts` and `users.contr
 | **Buddy Discovery Preference** | Backend API | **DESIGN TARGET** | Informational preference target (`Đang hoàn thiện`). |
 | **Post-Match Privacy Scope** | Design Contract | **TIER 2 BOUNDARY**| Matching gives in-app chat; does NOT reveal phone/email. |
 | **UserBlock Model** | Absent | **SCHEMA GAP** | Copy: `"Chặn & báo cáo: Đang hoàn thiện"` (No fake "0 người"). |
+| **User Online Presence / Status** | None | **MISSING / EXCLUDED** | Zero presence service/heartbeat. "Đang hoạt động" presence claim strictly purged from UI. |
 | **Foreground GPS Fix** | Mobile Geolocator | **CURRENT** | On-demand GPS fix with accuracy circle ($\pm\text{meters}$). |
 | **Background Location Tracking** | Client/Server | **EXCLUDED** | GoMate does not run background tracking services. |
 | **Continuous Live Location Sharing** | Client/Server | **EXCLUDED / FUTURE**| Prohibited in V1. Ephemeral opt-in sharing reserved for V2. |
@@ -296,8 +297,8 @@ All 12 current master visual mockups were rendered via headless Microsoft Edge b
 | Mockup File | Viewport | Target Resolution | Architectural & Visual Compliance Audit (R1 Calibrated) | Status |
 | :--- | :---: | :---: | :--- | :---: |
 | [`profile-mobile-overview-v1-r1.png`](file:///d:/Do_an/wanderai/docs/audit/evidence/ui-08.2.3.16/profile-mobile-overview-v1-r1.png) | Mobile | $390 \times 844$ | 1. App bar `Hồ sơ cá nhân` + gear icon.<br>2. User avatar (N), display name "Lê Hoàng Nam", static role "Thành viên" (mapped from USER). Inferred personality badge removed.<br>3. Bio text.<br>4. Neutral informational card "Cập nhật thông tin và sở thích du lịch để cá nhân hóa trải nghiệm GoMate." (fake 65% and Wandy/buddy matching claims removed).<br>5. Personal info & travel style (Comfort) + interest chips.<br>6. Actions: `[Chỉnh sửa hồ sơ]` + `[Quyền riêng tư]`.<br>7. Canonical 5-tab bottom navigation. | **CURRENT MASTER** |
-| [`profile-desktop-overview-v1-r1.png`](file:///d:/Do_an/wanderai/docs/audit/evidence/ui-08.2.3.16/profile-desktop-overview-v1-r1.png) | Desktop | $1440 \times 900$ | 1. Top nav: GoMate logo + badge `Hồ sơ du khách` + 5 canonical tabs + User pill.<br>2. 3-column workspace ($320\text{px} + 680\text{px} + 340\text{px}$).<br>3. Col 1: Profile summary, avatar, static role "Thành viên", fake "Đã xác thực" removed, completion card with neutral copy "Cập nhật thông tin và sở thích du lịch để cá nhân hóa trải nghiệm GoMate.", quick menu.<br>4. Col 2: Bio, basic info, TravelPreference details (Comfort, 1M-10M VND, 3-5 group, interest chips).<br>5. Col 3: Buddy Matching card ("Đang hoàn thiện"), Privacy Shield guarantee ("Mặc định ẩn"), Security shortcuts. | **CURRENT MASTER** |
-| [`profile-mobile-edit-v1-r1.png`](file:///d:/Do_an/wanderai/docs/audit/evidence/ui-08.2.3.16/profile-mobile-edit-v1-r1.png) | Mobile | $390 \times 844$ | **Option A Master Baseline:**<br>1. App bar `< Hủy`, `Chỉnh sửa hồ sơ`, `[Lưu]`.<br>2. Avatar edit overlay.<br>3. Writable Section (PUT /users/me): Tên hiển thị (2-50 chars) + Giới thiệu (78/200 chars).<br>4. Read-Only Section: Số điện thoại (Riêng tư); non-readable metadata (DOB, nationality, languages) omitted with honest note: "Một số thông tin tài khoản bổ sung chưa khả dụng trong phiên bản hiện tại.".<br>5. Clear note: Additional info managed at account level.<br>6. Primary CTA: `[Lưu thay đổi hồ sơ]`. | **CURRENT MASTER** |
+| [`profile-desktop-overview-v1-r1.png`](file:///d:/Do_an/wanderai/docs/audit/evidence/ui-08.2.3.16/profile-desktop-overview-v1-r1.png) | Desktop | $1440 \times 900$ | 1. Top nav: GoMate logo + badge `Hồ sơ du khách` + 5 canonical tabs + User pill.<br>2. 3-column workspace ($320\text{px} + 680\text{px} + 340\text{px}$).<br>3. Col 1: Profile summary, avatar, static role "Thành viên", fake "Đã xác thực" removed, completion card with neutral copy "Cập nhật thông tin và sở thích du lịch để cá nhân hóa trải nghiệm GoMate.", quick menu.<br>4. Col 2: Bio, basic info (Họ tên, SĐT [Riêng tư], Vai trò; unsupported "Đang hoạt động" presence claim completely removed), TravelPreference details (Comfort, 1M-10M VND, 3-5 group, interest chips).<br>5. Col 3: Buddy Matching card ("Đang hoàn thiện"), Privacy Shield guarantee ("Mặc định ẩn"), Security shortcuts. | **CURRENT MASTER** |
+| [`profile-mobile-edit-v1-r1.png`](file:///d:/Do_an/wanderai/docs/audit/evidence/ui-08.2.3.16/profile-mobile-edit-v1-r1.png) | Mobile | $390 \times 844$ | **Option A Master Baseline (R1.2 Calibrated):**<br>1. App bar: `< Chỉnh sửa hồ sơ` (duplicate AppBar [Lưu] button removed).<br>2. Avatar presentation without false camera upload affordance (native picker / multipart upload is DESIGN TARGET).<br>3. Writable Section (PUT /users/me): Tên hiển thị (2-50 chars) + Giới thiệu (78/200 chars).<br>4. Read-Only Section: Số điện thoại (Riêng tư); non-readable metadata (DOB, nationality, languages) omitted with honest note: "Một số thông tin tài khoản bổ sung chưa khả dụng trong phiên bản hiện tại.".<br>5. Clear note: Additional info managed at account level.<br>6. Single Primary CTA: `[Lưu thay đổi hồ sơ]`. | **CURRENT MASTER** |
 | [`profile-mobile-travel-preferences-v1-r1.png`](file:///d:/Do_an/wanderai/docs/audit/evidence/ui-08.2.3.16/profile-mobile-travel-preferences-v1-r1.png) | Mobile | $390 \times 844$ | **Option A Read-Only Master Baseline:**<br>1. App bar `< Hồ sơ`, `Sở thích du lịch` (no Save button).<br>2. Informational note: "Sở thích du lịch: Chức năng chỉnh sửa sở thích đang được hoàn thiện."<br>3. TravelStyle cards (Thoải mái displayed read-only).<br>4. GroupSize chips (Nhóm nhỏ 3-5 displayed read-only).<br>5. Budget range: 1.000.000 đ – 10.000.000 đ.<br>6. Interest chips: Biển, Văn hóa, Ẩm thực, Chụp ảnh (no toggle affordances).<br>7. Read-only presentation; no Save CTA. | **CURRENT MASTER** |
 | [`settings-mobile-home-v1.png`](file:///d:/Do_an/wanderai/docs/audit/evidence/ui-08.2.3.16/settings-mobile-home-v1.png) | Mobile | $390 \times 844$ | 1. App bar `< Cài đặt`.<br>2. User header card with avatar & `Hồ sơ ›` link.<br>3. Grouped sections: Tài khoản & Bảo mật, Trải nghiệm du lịch, Quyền riêng tư & An toàn, Ứng dụng.<br>4. Red logout action: `[Đăng xuất tài khoản]`.<br>5. Canonical 5-tab bottom navigation. | **CURRENT MASTER** |
 | [`settings-desktop-home-v1-r1.png`](file:///d:/Do_an/wanderai/docs/audit/evidence/ui-08.2.3.16/settings-desktop-home-v1-r1.png) | Desktop | $1440 \times 900$ | 1. Top nav: GoMate logo + badge `Hồ sơ du khách` + 5 canonical tabs + User pill.<br>2. 2-column workspace ($320\text{px} + 1020\text{px}$).<br>3. Left menu: Settings categories.<br>4. Right panel: Account info card (fake "Đã xác thực" removed), Password card ("Đã thiết lập", change password unavailable), Privacy (Buddy matching "Đang hoàn thiện", Phone "Mặc định ẩn") & Location summary, Danger zone (Account management pure informational guidance, no fake CTA/button). | **CURRENT MASTER** |
